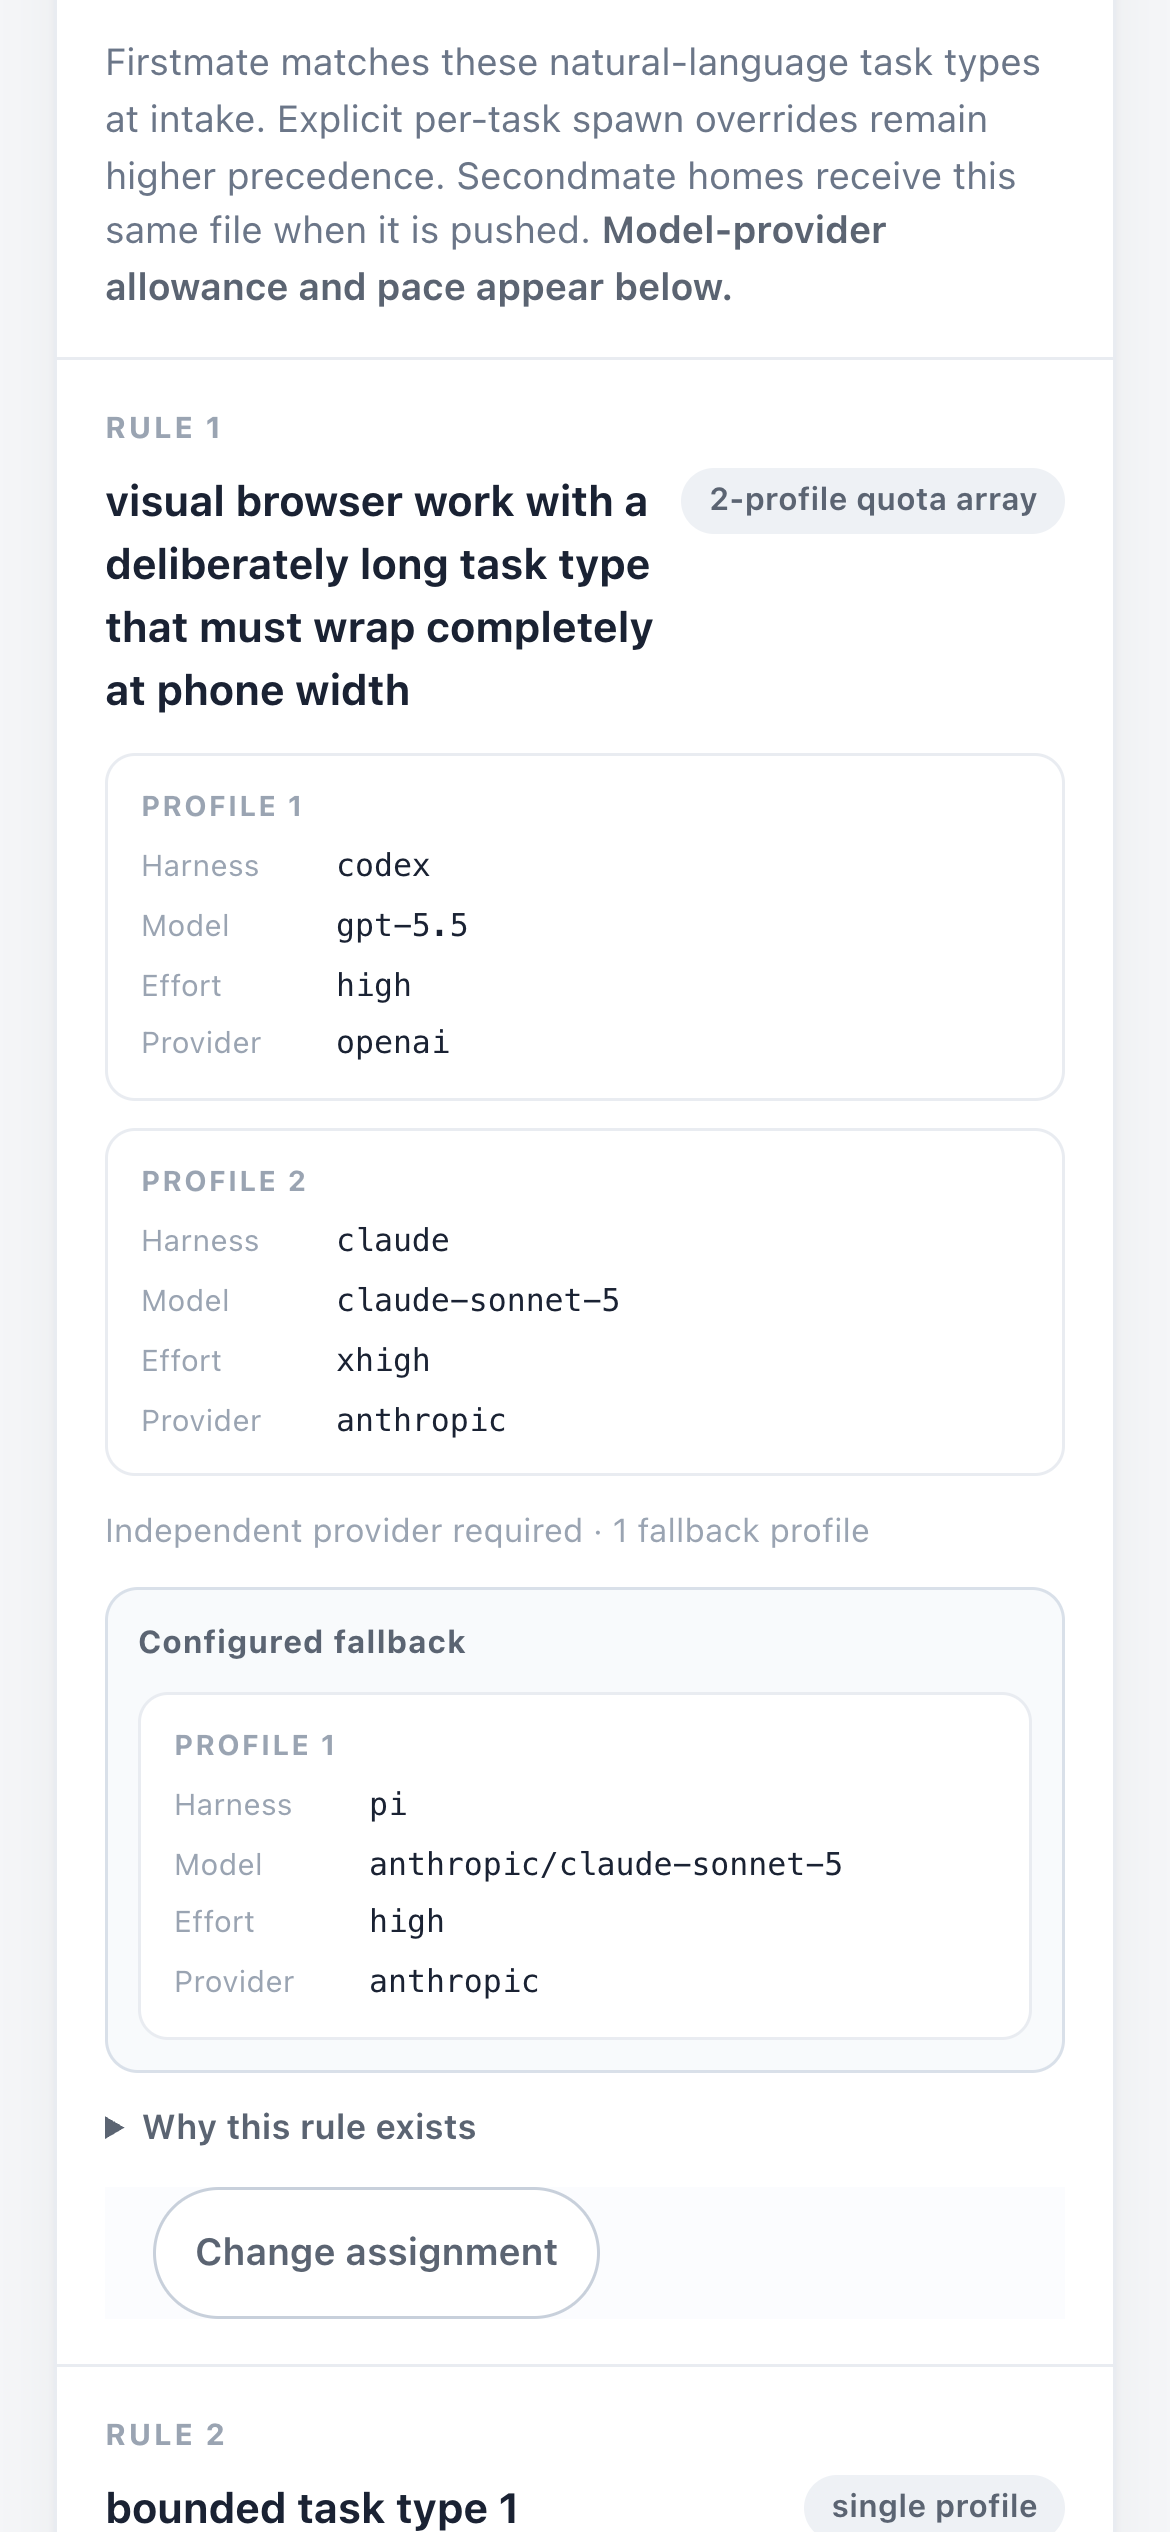
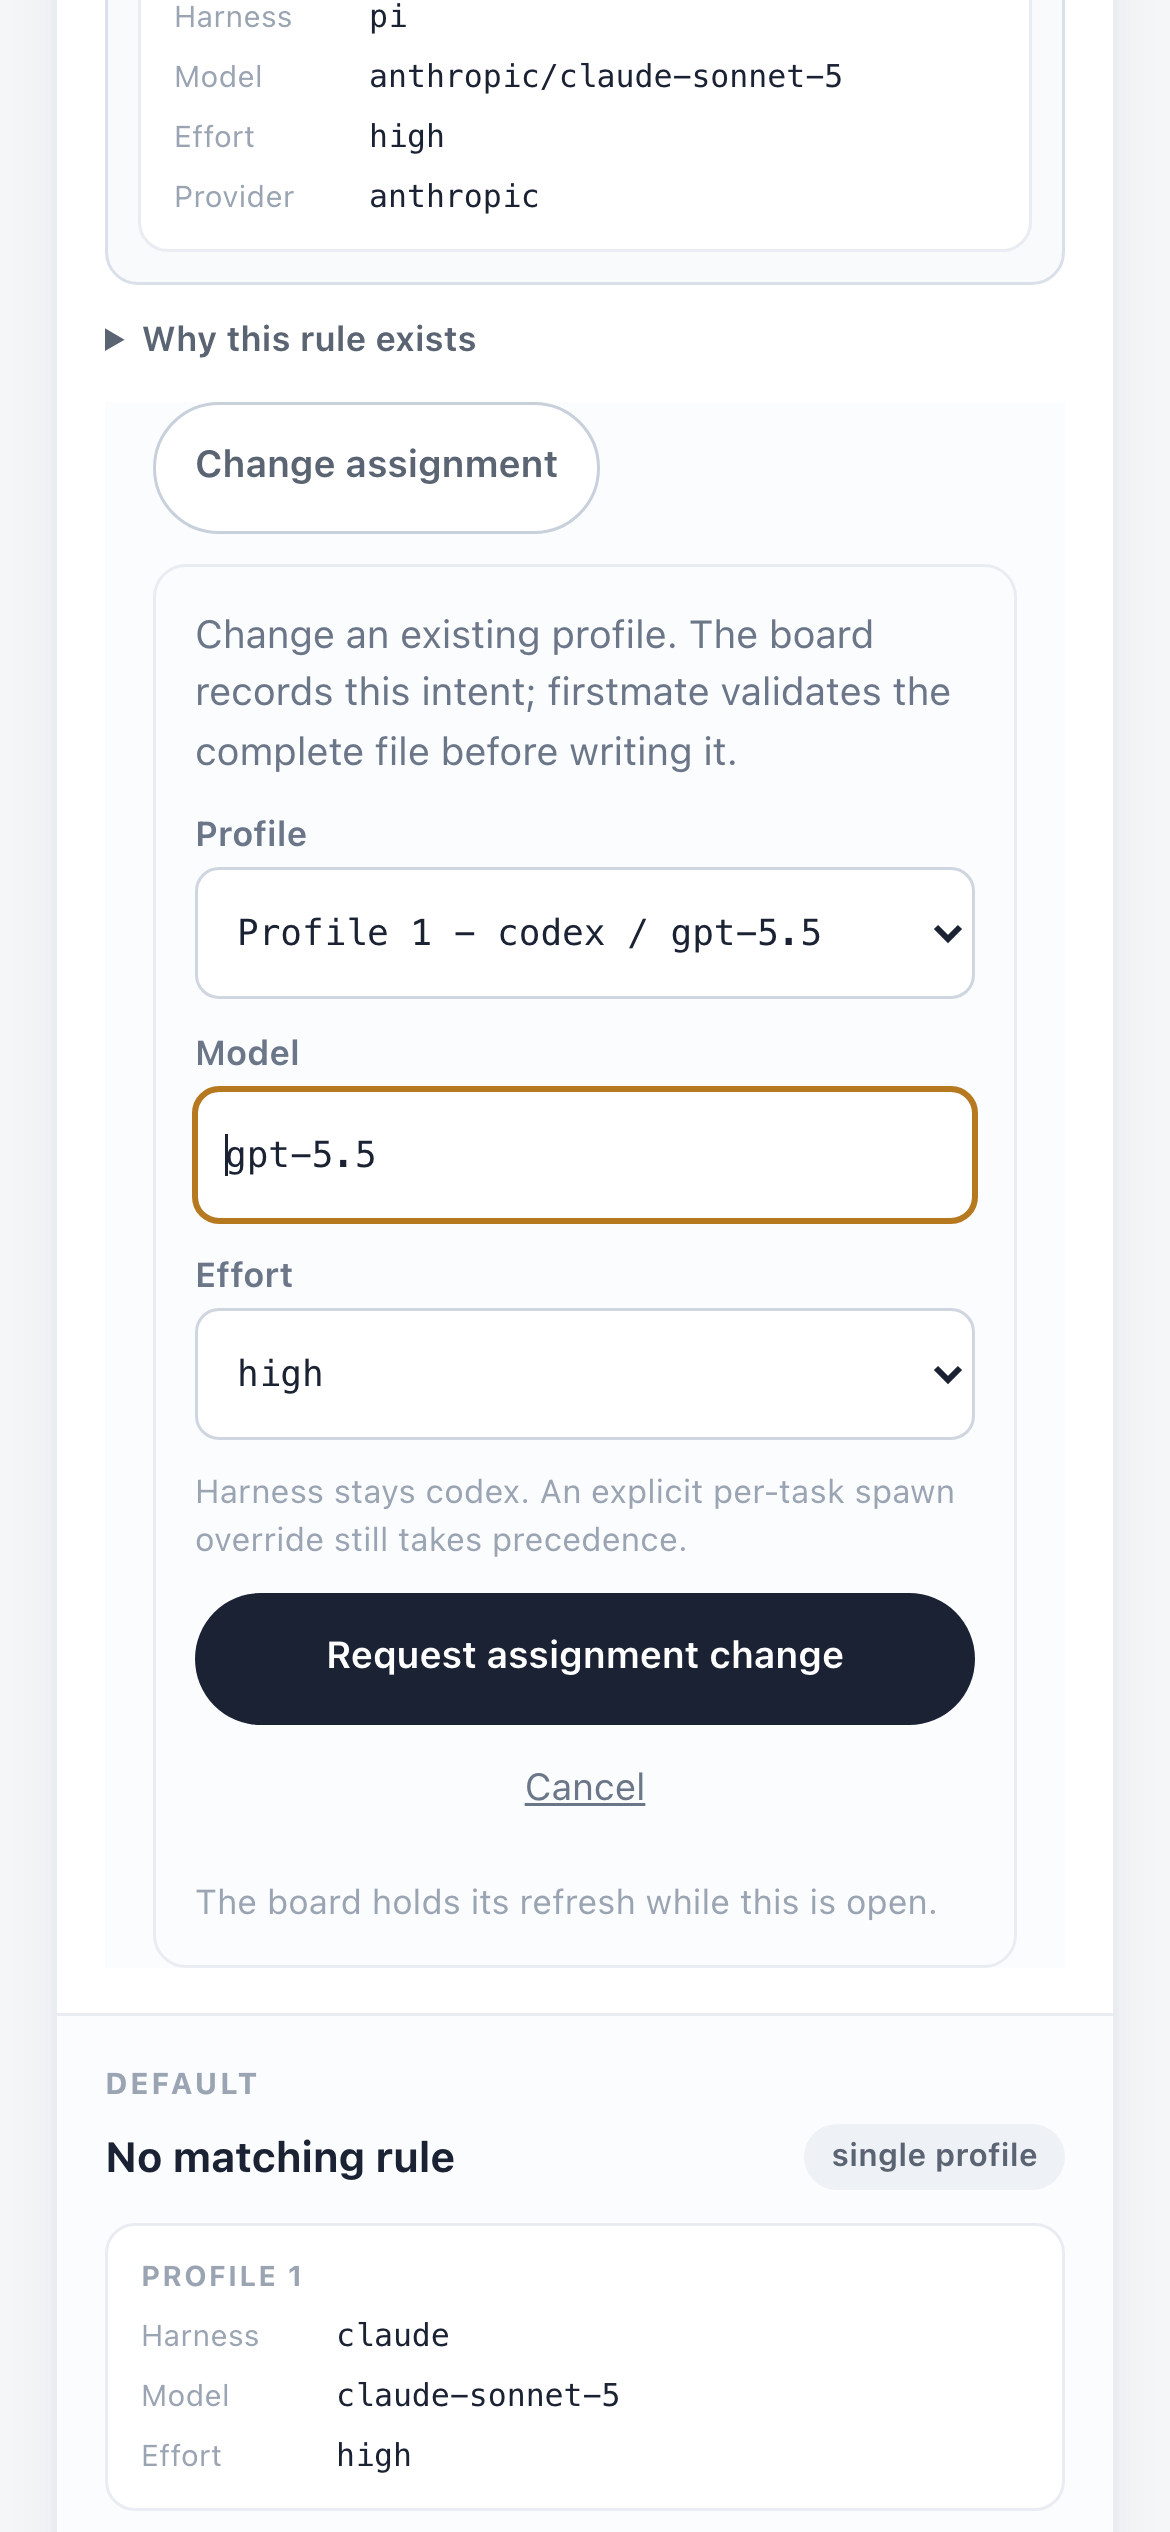
no-mistakes(document): Document stable dispatch ID migration

diff --git a/docs/configuration.md b/docs/configuration.md
@@ -300,12 +300,13 @@ This section is the single owner of the canonical schema and its per-field seman
 Per rule, `id`, `when`, and `use` are required, and every profile object also requires `id`.
 Rule ids must be unique among rules, profile ids must be unique across the file, and each id must match `[A-Za-z0-9][A-Za-z0-9._-]{0,119}`.
 These ids are stable object identities: reordering rules or profiles never changes them, and changing an id means replacing the addressed object rather than renaming a display label.
+An existing file created before stable ids were required must add unique rule and profile ids before bootstrap or Mission Control will accept it; there is no positional or automatic id migration.
 Both `use` and the optional top-level `default` accept either one profile object or a non-empty array of profile objects.
 The single-object form remains accepted alongside the array form, and every profile needs `harness`.
 Profile `model`, `effort`, and `provider` fields and rule `why` are optional.
 An omitted model or effort means the selected harness uses its own default for that axis.
 `provider` is an opaque lowercase `[a-z0-9._-]` token naming the model provider that profile bills against; firstmate establishes that relation itself from the harness's own catalog, and no script infers a provider from a harness or model name.
-A profile with no `provider` is never excluded by provider-outage state, so an existing configuration keeps its current behavior exactly.
+A profile with no `provider` is never excluded by provider-outage state, so adding the required stable ids to an older configuration does not change that profile's provider-outage behavior.
 The optional rule-level `fallback` and top-level `default_fallback` take the same profile object or non-empty array and are the outage alternative for that rule or default; `independent` is an optional rule-level boolean marking a review or audit that must not share a provider with the work under review.
 See "Provider outage continuity" below for how those three fields are consumed.
 Every profile array is an implicit quota-aware choice resolved through `quota-array-dispatch`.

diff --git a/docs/mission-control.md b/docs/mission-control.md
@@ -256,7 +256,7 @@ At that wake, a validated `file` record surfaces its `note` unchanged for firstm
 For an `answer` or `dispatch`, firstmate runs `bin/fm-procevent-board-reply.sh apply <result-file>` before acknowledging the captured generation.
 The collector preserves an answer's field values and overflow note as compact JSON, validates them against the filed decision, and delegates closure to `bin/fm-decision-hold.sh resolve-board` and its existing `resolve` ordering, while a dispatch request goes through the bounded shared validator and apply boundary.
 A refusal leaves the captured request available and does not change the target state, so firstmate can report the reason and retry without losing the request.
-The transport does no automatic backlog filing, project matching, task classification, or dispatch.
+The transport does no automatic backlog filing, project matching, task classification, or task dispatch.
 
 `bin/fm-procevent-board-reply.sh say-source <source-id> <text>|-` is how firstmate answers a board-reply wake into its originating board's conversation, while `say <board.html> <text>|-` is the board-path form and `reply-log-path <board.html>` prints where that conversation is kept.
 A reply is validated by the same program over the same bytes, under its own marker and its own single permitted intent, and direction is taken from the leading marker so neither side can claim the other's.
